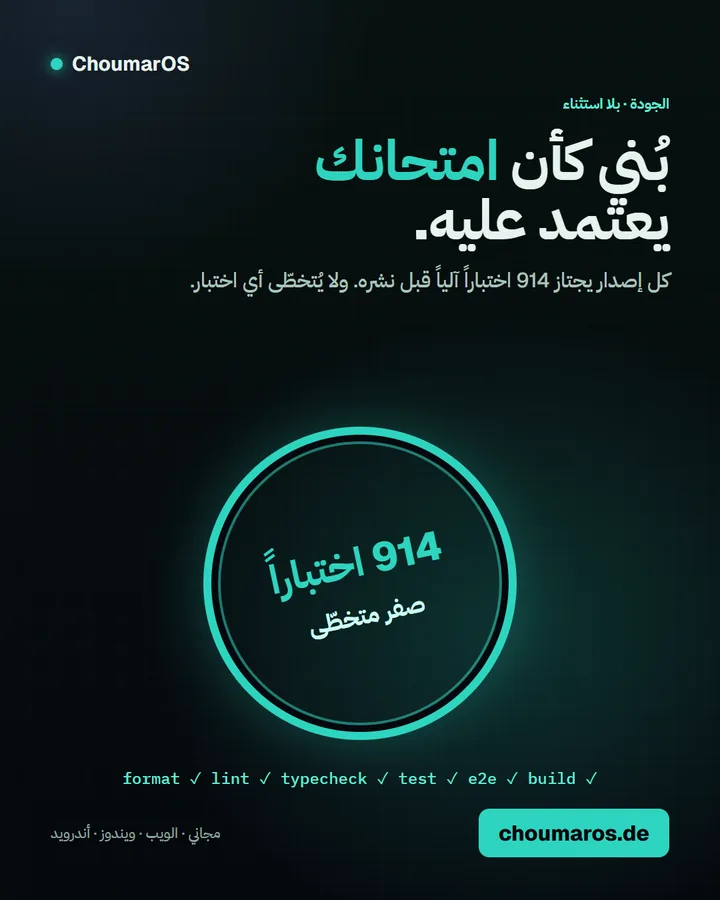
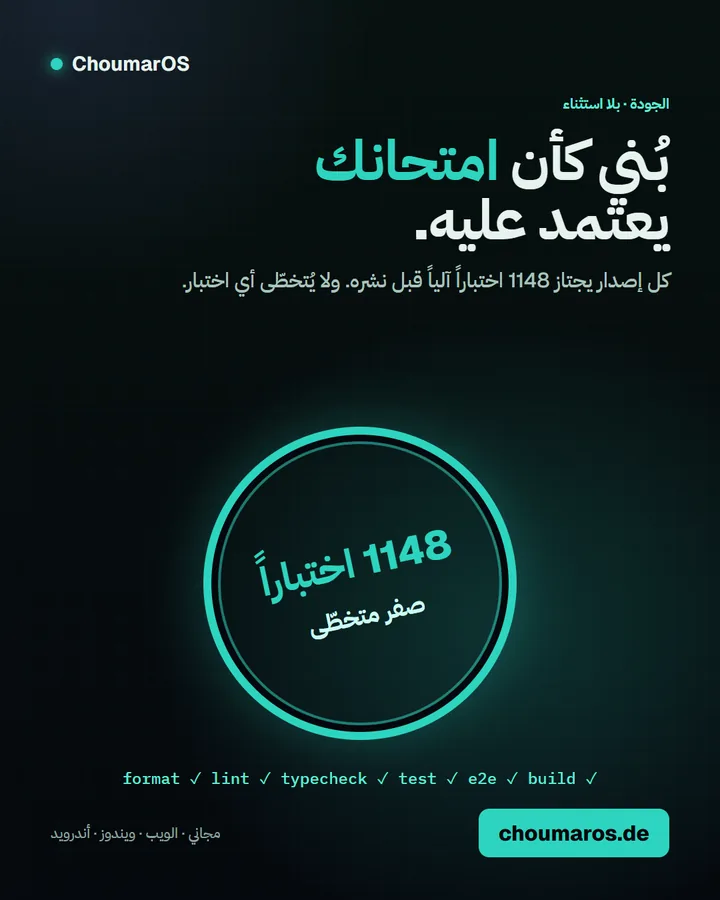
Current test counts on the quality visual and in the README

Changed region(s): [[0.2444, 0.28, 0.7639, 0.3422], [0.3361, 0.5911, 0.6417, 0.6844]]

diff --git a/README.md b/README.md
@@ -53,9 +53,9 @@ private repository as of October 2026.
 - 212 commits, about 85,000 lines in 577 files, 25 architecture decision records, 19 migrations.
 
 **Testing — nothing ships red**
-- 795 automated tests: unit tests plus integration tests against a real PostgreSQL database.
+- 802 automated tests: unit tests plus integration tests against a real PostgreSQL database.
   None skipped.
-- 345 browser test runs with Playwright, accessibility audits with axe-core, and runs in Firefox
+- 346 browser test runs with Playwright, accessibility audits with axe-core, and runs in Firefox
   and WebKit for layout, focus and right-to-left behaviour.
 - Every release passes format, lint (0 warnings), type-check, tests and a production build.
 
